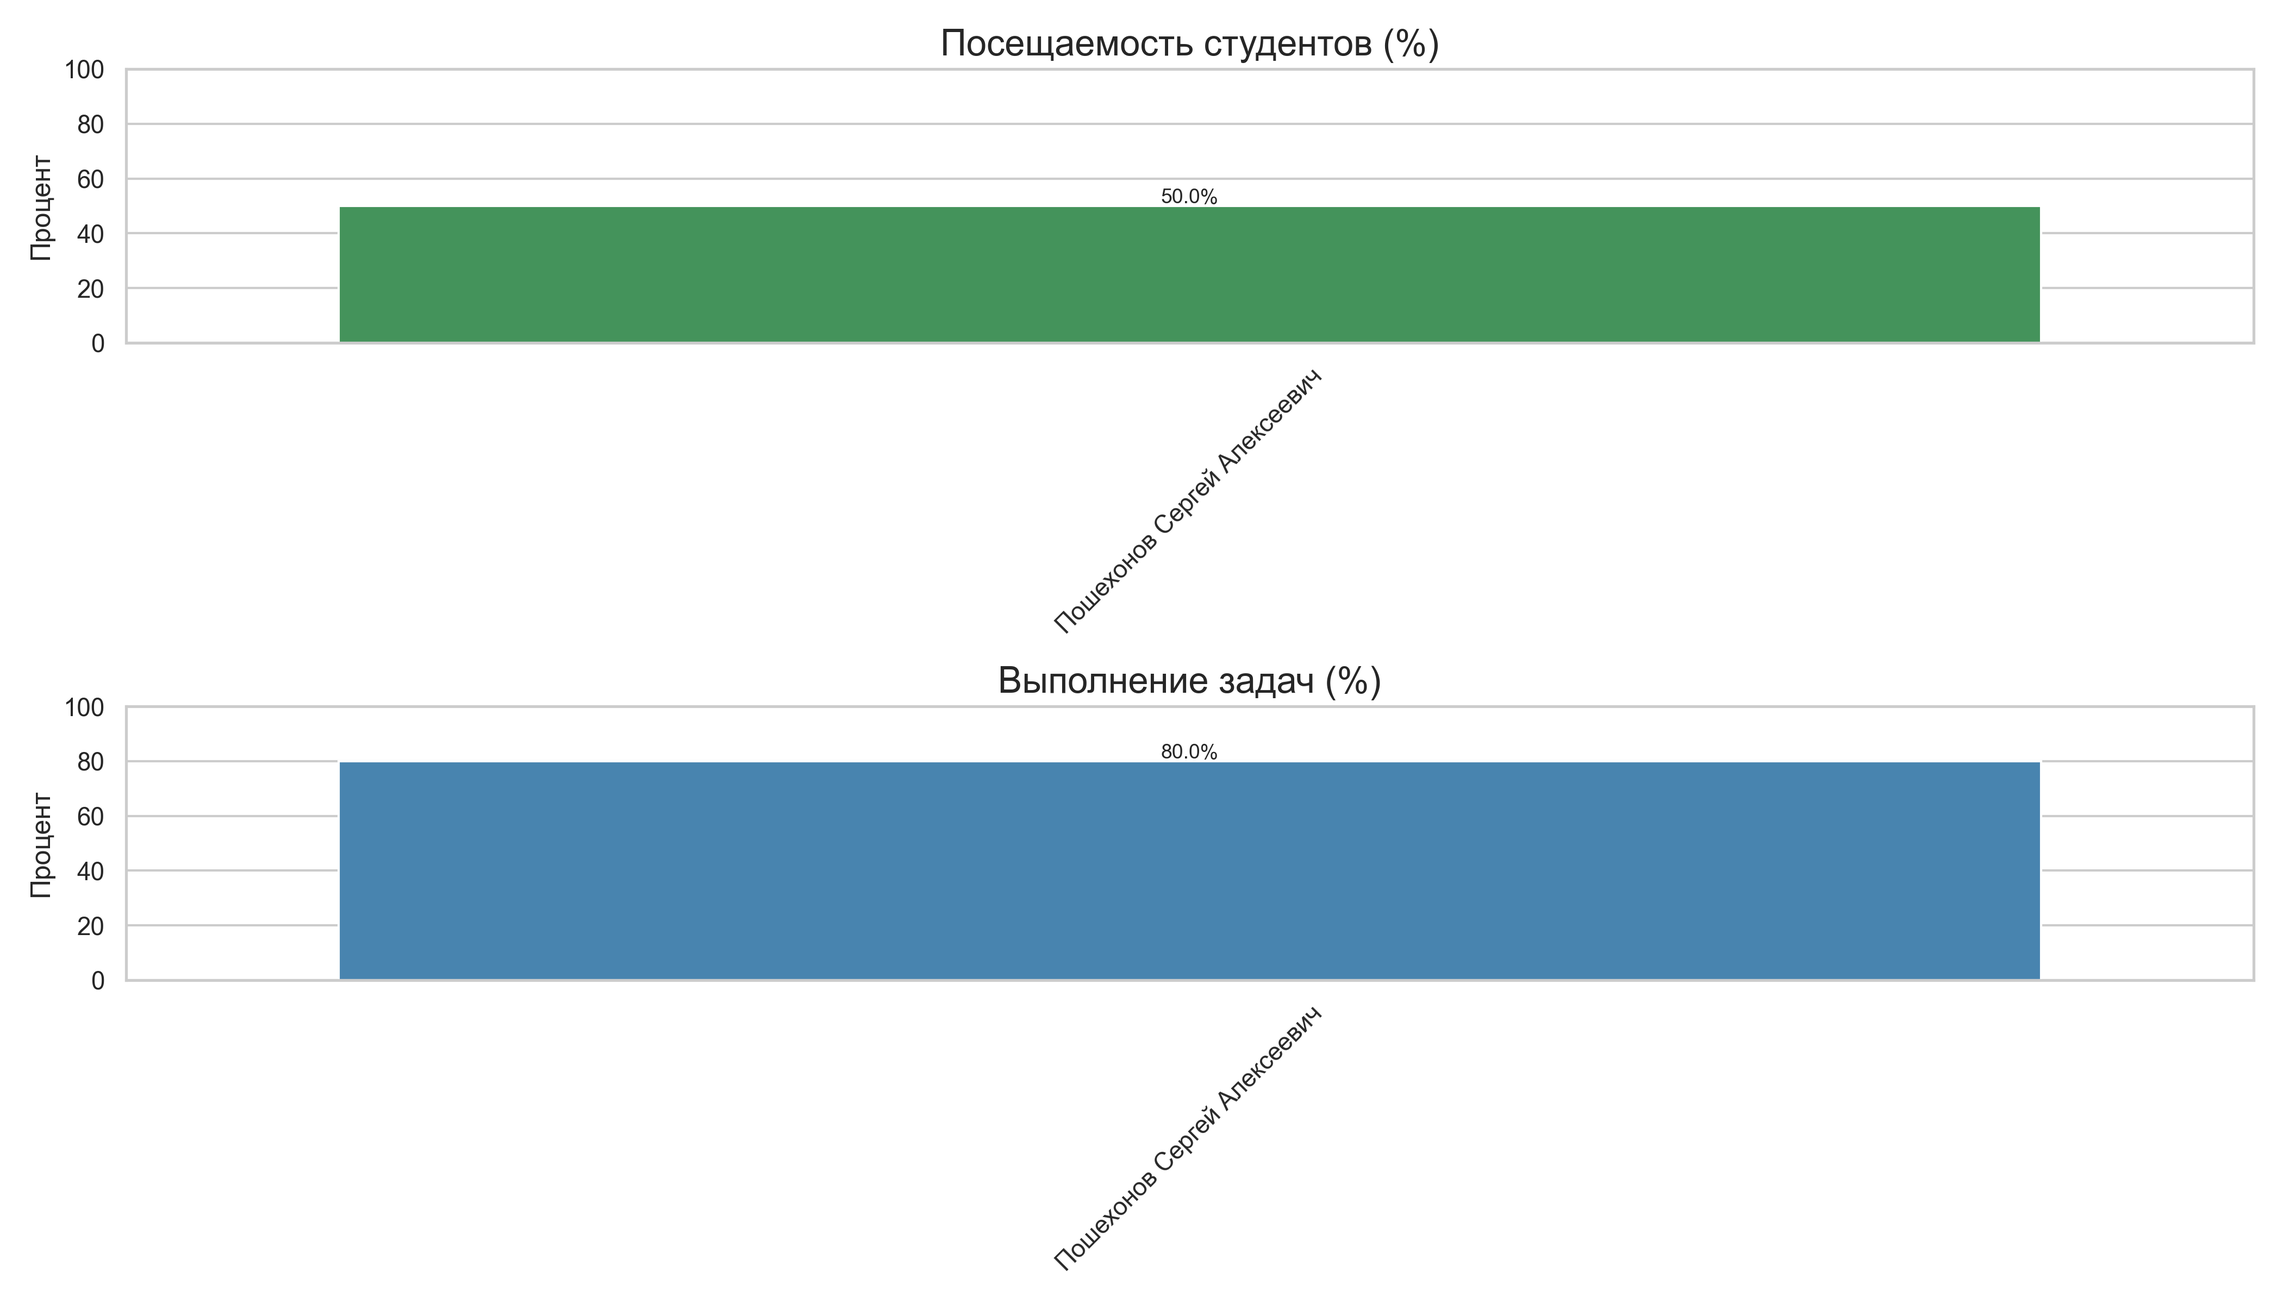
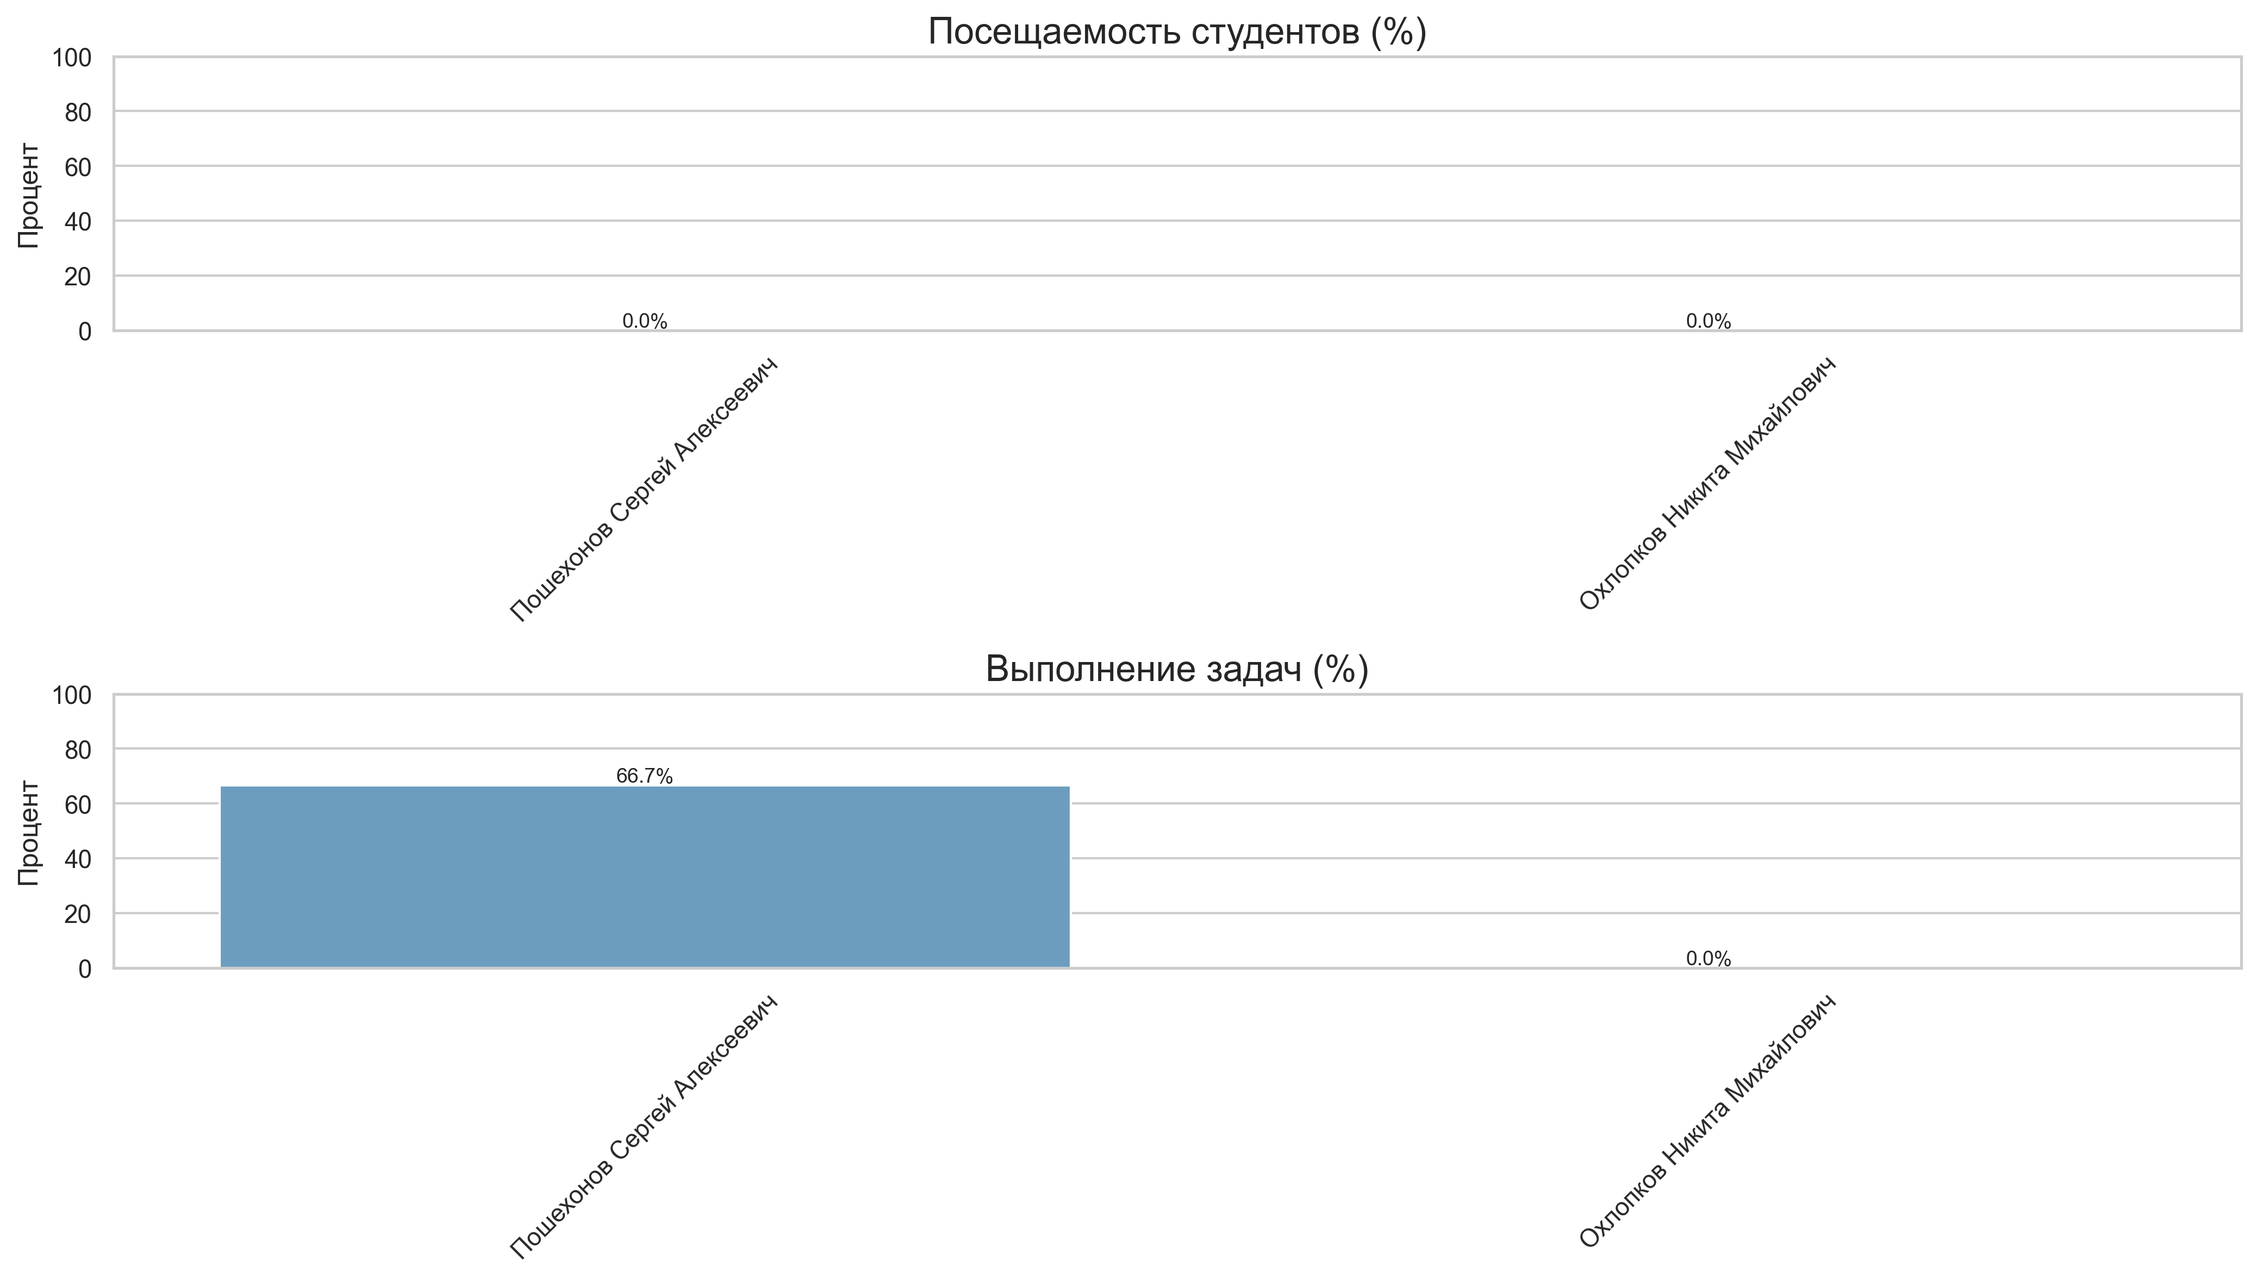
Fix Bugs: изменен вывод статистики для студентов и преподавателей, автоматическая генерация 'report.png' и его автоматическая загрузка

diff --git a/planora/templates/statistic.html b/planora/templates/statistic.html
@@ -5,6 +5,25 @@
 {% block content %}
 <div class="statistics-page">
     <h1>📊 Статистика</h1>
+    <!-- Форма выбора периода -->
+    <p>Выберите промежуток дат для получения статистики в заданном диапазоне</p>
+    <form method="get" class="date-filter-form" style="margin-bottom: 1.5em;">
+        <label for="start_date">С:</label>
+        <div class="input-block">
+            <input type="date"
+                   id="start_date"
+                   name="start_date"
+                   value="{{ start_date|date:'Y-m-d' }}" required>
+        </div>
+        <label for="end_date">По:</label>
+        <div class="input-block">
+            <input type="date"
+                   id="end_date"
+                   name="end_date"
+                   value="{{ end_date|date:'Y-m-d' }}" required>
+        </div>
+        <button type="submit" class="auth-button">Показать</button>
+    </form>
     <p>Период анализа: {{ start_date }} — {{ end_date }}</p>
 
     <h2>👨🎓 Студенты</h2>
@@ -55,6 +74,6 @@
         </tbody>
     </table>
     <h2>📈 Графики</h2>
-    <img src="{% static chart_url %}" alt="Статистика студентов" style="max-width: 100%; height: auto;">
+    <img src="{% static 'reports/report.png' %}" alt="Статистика студентов" style="max-width: 100%; height: auto;">
 </div>
 {% endblock %}

diff --git a/planora/static/css/main.css b/planora/static/css/main.css
@@ -1035,3 +1035,7 @@ mark {
 .delete-task-button:active {
     transform: translateY(0);
 }
+
+.date-filter-form {
+    color:black;
+}

diff --git a/planora/statistic/views.py b/planora/statistic/views.py
@@ -1,34 +1,81 @@
 from django.shortcuts import render
+from django.utils import timezone
+from django.conf import settings
 from home.models import Attendance, Lesson, Task
 from registration.models import CustomUser
-from datetime import datetime
+from datetime import datetime, timedelta
 import os
+import io
+import base64
+import matplotlib
+matplotlib.use('Agg')
 import matplotlib.pyplot as plt
 import seaborn as sns
 
+#
+from plot_reports import make_plot_file
+
 
 def statistics_view(request):
-    start_date = datetime.strptime("2025-06-02", "%Y-%m-%d").date()
-    end_date = datetime.strptime("2025-06-15", "%Y-%m-%d").date()
+    # Попытка получить даты из GET-параметров
+    start_str = request.GET.get('start_date')
+    end_str = request.GET.get('end_date')
 
+    # Значения по умолчанию — последние 14 дней
+    today = timezone.localdate()  # локальная дата, Europe/Bucharest
+    default_end = today
+    default_start = today - timedelta(days=13)
+
+    # Парсим GET-параметры, или берём по умолчанию
+    try:
+        start_date = datetime.strptime(start_str, '%Y-%m-%d').date() if start_str else default_start
+    except ValueError:
+        start_date = default_start
+
+    try:
+        end_date = datetime.strptime(end_str, '%Y-%m-%d').date() if end_str else default_end
+    except ValueError:
+        end_date = default_end
+
+    # Гарантируем, что start_date <= end_date
+    if start_date > end_date:
+        start_date, end_date = end_date, start_date
+
+    # Далее по вашей логике — получаем студентов, считаем статистику…
     students = CustomUser.objects.filter(role='student')
     teachers = CustomUser.objects.filter(role='teacher')
 
     student_data = []
     for student in students:
+        # Общая посещаемость
         total_attend = Attendance.objects.filter(student=student).count()
         present_attend = Attendance.objects.filter(student=student, present=True).count()
 
-        total_period_attend = Attendance.objects.filter(student=student, lesson__date__range=(start_date, end_date)).count()
-        present_period_attend = Attendance.objects.filter(student=student, present=True, lesson__date__range=(start_date, end_date)).count()
+        # Посещаемость за период
+        total_period_attend = Attendance.objects.filter(
+            student=student,
+            lesson__date__range=(start_date, end_date)
+        ).count()
+        present_period_attend = Attendance.objects.filter(
+            student=student,
+            present=True,
+            lesson__date__range=(start_date, end_date)
+        ).count()
         attend_percent = (present_period_attend / total_period_attend * 100) if total_period_attend else 0
 
+        # Задачи
         total_tasks = Task.objects.filter(user=student).count()
         done_tasks = Task.objects.filter(user=student, done=True).count()
         done_percent = (done_tasks / total_tasks * 100) if total_tasks else 0
 
-        lessons_in_period = Lesson.objects.filter(study_groups=student.student_group, date__range=(start_date, end_date)).distinct().count()
-        tasks_in_period = Task.objects.filter(user=student, date__range=(start_date, end_date)).count()
+        lessons_in_period = Lesson.objects.filter(
+            study_groups=student.student_group,
+            date__range=(start_date, end_date)
+        ).distinct().count()
+        tasks_in_period = Task.objects.filter(
+            user=student,
+            date__range=(start_date, end_date)
+        ).count()
 
         student_data.append({
             'name': student.full_name,
@@ -44,73 +91,23 @@ def statistics_view(request):
 
     teacher_data = []
     for teacher in teachers:
-        lessons = Lesson.objects.filter(teacher=teacher.full_name, date__range=(start_date, end_date)).count()
+        lessons = Lesson.objects.filter(
+            teacher=teacher.full_name,
+            date__range=(start_date, end_date)
+        ).count()
         teacher_data.append({
             'name': teacher.full_name,
             'groups': [g.name for g in teacher.teaching_groups.all()],
             'lessons': lessons
         })
 
-    chart_url = generate_report_chart(start_date, end_date)
+    make_plot_file(start_date, end_date)
 
     context = {
         'start_date': start_date,
         'end_date': end_date,
         'student_data': student_data,
         'teacher_data': teacher_data,
-        'chart_url': chart_url,
+        'chart_data': '../reports/report.png'
     }
-
     return render(request, 'statistic.html', context)
-
-
-def generate_report_chart(start_date, end_date):
-    students = CustomUser.objects.filter(role='student')
-    names = []
-    attendance_percents = []
-    task_completion_percents = []
-
-    for student in students:
-        total_attend = Attendance.objects.filter(student=student, lesson__date__range=(start_date, end_date)).count()
-        present_attend = Attendance.objects.filter(student=student, present=True, lesson__date__range=(start_date, end_date)).count()
-        attendance_percent = (present_attend / total_attend * 100) if total_attend else 0
-
-        total_tasks = Task.objects.filter(user=student, date__range=(start_date, end_date)).count()
-        done_tasks = Task.objects.filter(user=student, done=True, date__range=(start_date, end_date)).count()
-        task_percent = (done_tasks / total_tasks * 100) if total_tasks else 0
-
-        names.append(student.full_name)
-        attendance_percents.append(attendance_percent)
-        task_completion_percents.append(task_percent)
-
-    sns.set(style="whitegrid")
-
-    fig, axs = plt.subplots(2, 1, figsize=(14, 8))
-
-    sns.barplot(x=names, y=attendance_percents, ax=axs[0], palette="Greens_d")
-    axs[0].set_title("Посещаемость студентов (%)", fontsize=16)
-    axs[0].set_ylabel("Процент")
-    axs[0].set_ylim(0, 100)
-    axs[0].tick_params(axis='x', rotation=45)
-    for i, v in enumerate(attendance_percents):
-        axs[0].text(i, v + 1, f"{v:.1f}%", ha='center', fontsize=9)
-
-    sns.barplot(x=names, y=task_completion_percents, ax=axs[1], palette="Blues_d")
-    axs[1].set_title("Выполнение задач (%)", fontsize=16)
-    axs[1].set_ylabel("Процент")
-    axs[1].set_ylim(0, 100)
-    axs[1].tick_params(axis='x', rotation=45)
-    for i, v in enumerate(task_completion_percents):
-        axs[1].text(i, v + 1, f"{v:.1f}%", ha='center', fontsize=9)
-
-    plt.tight_layout()
-
-    # Папка для статичных файлов отчётов
-    reports_dir = os.path.join('home', 'static', 'reports')
-    os.makedirs(reports_dir, exist_ok=True)
-
-    output_path = os.path.join(reports_dir, 'report.png')
-    plt.savefig(output_path, dpi=300)
-    plt.close(fig)
-
-    return 'reports/report.png'  # путь относительно STATIC_URL

diff --git a/planora/plot_reports.py b/planora/plot_reports.py
@@ -5,68 +5,79 @@ import matplotlib.pyplot as plt
 import seaborn as sns
 from datetime import datetime
 
-# Django setup
-sys.path.append(os.path.join(os.path.dirname(__file__), 'planora'))
-os.environ.setdefault("DJANGO_SETTINGS_MODULE", "planora.settings")
-django.setup()
 
-from home.models import Attendance, Task
-from registration.models import CustomUser
+def make_plot_file(start_date, end_date):
+    print(start_date, end_date)
 
-# Период анализа
-start_date = datetime(2024, 6, 2).date()
-end_date = datetime(2024, 6, 15).date()
+    # Django setup
+    sys.path.append(os.path.join(os.path.dirname(__file__), 'planora'))
+    os.environ.setdefault("DJANGO_SETTINGS_MODULE", "planora.settings")
+    django.setup()
 
-# Готовим данные
-students = CustomUser.objects.filter(role='student')
-names = []
-attendance_percents = []
-task_completion_percents = []
+    from home.models import Attendance, Task
+    from registration.models import CustomUser
 
-for student in students:
-    # Посещаемость
-    total_attend = Attendance.objects.filter(student=student, lesson__date__range=(start_date, end_date)).count()
-    present_attend = Attendance.objects.filter(student=student, present=True, lesson__date__range=(start_date, end_date)).count()
-    attendance_percent = (present_attend / total_attend * 100) if total_attend else 0
+    # Период анализа
+    #start_date = datetime(2025, 6, 2).date()
+    #end_date = datetime(2025, 6, 15).date()
 
-    # Задачи
-    total_tasks = Task.objects.filter(user=student, date__range=(start_date, end_date)).count()
-    done_tasks = Task.objects.filter(user=student, done=True, date__range=(start_date, end_date)).count()
-    task_percent = (done_tasks / total_tasks * 100) if total_tasks else 0
+    # Готовим данные
+    students = CustomUser.objects.filter(role='student')
+    print(f"students: {students}")
+    names = []
+    attendance_percents = []
+    task_completion_percents = []
 
-    names.append(student.full_name)
-    attendance_percents.append(attendance_percent)
-    task_completion_percents.append(task_percent)
+    for student in students:
+        # Посещаемость
+        total_attend = Attendance.objects.filter(student=student, lesson__date__range=(start_date, end_date)).count()
+        present_attend = Attendance.objects.filter(student=student, present=True, lesson__date__range=(start_date, end_date)).count()
+        attendance_percent = (present_attend / total_attend * 100) if total_attend else 0
 
-# === Графики ===
-sns.set(style="whitegrid")
+        # Задачи
+        total_tasks = Task.objects.filter(user=student, date__range=(start_date, end_date)).count()
+        done_tasks = Task.objects.filter(user=student, done=True, date__range=(start_date, end_date)).count()
+        task_percent = (done_tasks / total_tasks * 100) if total_tasks else 0
 
-fig, axs = plt.subplots(2, 1, figsize=(14, 8))
+        names.append(student.full_name)
+        attendance_percents.append(attendance_percent)
+        task_completion_percents.append(task_percent)
 
-# 1. Посещаемость
-sns.barplot(x=names, y=attendance_percents, ax=axs[0], palette="Greens_d")
-axs[0].set_title("Посещаемость студентов (%)", fontsize=16)
-axs[0].set_ylabel("Процент")
-axs[0].set_ylim(0, 100)
-axs[0].tick_params(axis='x', rotation=45)
-for i, v in enumerate(attendance_percents):
-    axs[0].text(i, v + 1, f"{v:.1f}%", ha='center', fontsize=9)
+    # === Графики ===
+    sns.set(style="whitegrid")
 
-# 2. Выполнение задач
-sns.barplot(x=names, y=task_completion_percents, ax=axs[1], palette="Blues_d")
-axs[1].set_title("Выполнение задач (%)", fontsize=16)
-axs[1].set_ylabel("Процент")
-axs[1].set_ylim(0, 100)
-axs[1].tick_params(axis='x', rotation=45)
-for i, v in enumerate(task_completion_percents):
-    axs[1].text(i, v + 1, f"{v:.1f}%", ha='center', fontsize=9)
+    fig, axs = plt.subplots(2, 1, figsize=(14, 8))
 
-plt.tight_layout()
+    # 1. Посещаемость
+    sns.barplot(x=names, y=attendance_percents, ax=axs[0], palette="Greens_d")
+    axs[0].set_title("Посещаемость студентов (%)", fontsize=16)
+    axs[0].set_ylabel("Процент")
+    axs[0].set_ylim(0, 100)
+    axs[0].tick_params(axis='x', rotation=45)
+    for i, v in enumerate(attendance_percents):
+        axs[0].text(i, v + 1, f"{v:.1f}%", ha='center', fontsize=9)
 
-# === Сохранение графика ===
-os.makedirs("reports", exist_ok=True)
-output_path = "reports/report.png"
-plt.savefig(output_path, dpi=300)
+    # 2. Выполнение задач
+    sns.barplot(x=names, y=task_completion_percents, ax=axs[1], palette="Blues_d")
+    axs[1].set_title("Выполнение задач (%)", fontsize=16)
+    axs[1].set_ylabel("Процент")
+    axs[1].set_ylim(0, 100)
+    axs[1].tick_params(axis='x', rotation=45)
+    for i, v in enumerate(task_completion_percents):
+        axs[1].text(i, v + 1, f"{v:.1f}%", ha='center', fontsize=9)
 
-print(f"✅ График сохранён: {output_path}")
-plt.show()
+    plt.tight_layout()
+
+    # === Сохранение графика ===
+    print("AAAAAAAAAAAAAAAAAAAAAAAAAAAaaaaaaaa")
+    BASE_DIR = os.path.dirname(os.path.abspath(__file__))
+    print(BASE_DIR)
+    reports_dir = os.path.join(BASE_DIR, 'home', 'static','reports')
+    os.makedirs(reports_dir, exist_ok=True)
+    print(reports_dir)
+    output_path = os.path.join(reports_dir, 'report.png')
+    fig.savefig(output_path, dpi=300, bbox_inches='tight')
+    plt.close(fig)
+
+    print(f"✅ График сохранён: {output_path}")
+    plt.show()

diff --git a/planora/dummy_data.py b/planora/dummy_data.py
@@ -18,8 +18,8 @@ from registration.models import CustomUser
 # Attendance.objects.all().delete()
 
 # === Настройки ===
-start_date = datetime(2024, 6, 1)
-end_date = datetime(2024, 6, 15)
+start_date = datetime(2025, 6, 1)
+end_date = datetime(2025, 6, 15)
 days_range = (end_date - start_date).days
 
 # === Подготовка данных ===
